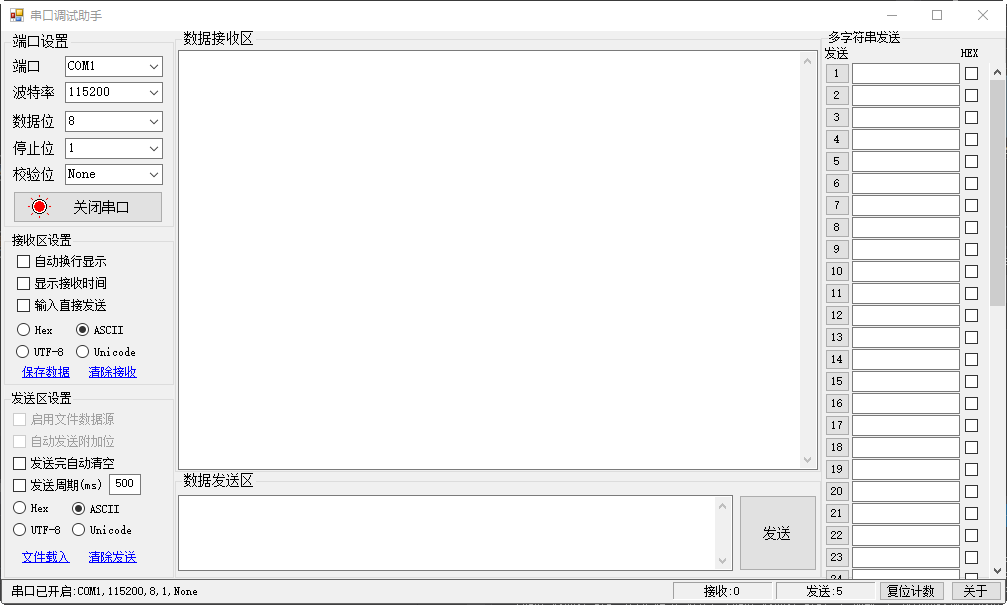
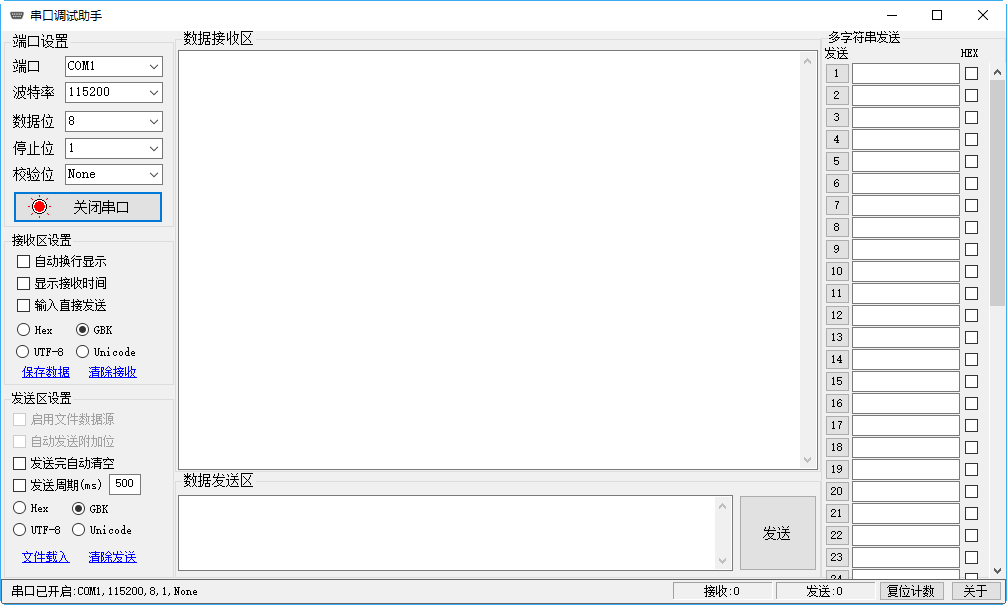
fix #1:ASCII编码发送中文异常,修改为GBK编码

diff --git a/ZUART/ZUART.Designer.cs b/ZUART/ZUART.Designer.cs
@@ -215,10 +215,10 @@
             this.rbtnSendASCII.Checked = true;
             this.rbtnSendASCII.Location = new System.Drawing.Point(68, 109);
             this.rbtnSendASCII.Name = "rbtnSendASCII";
-            this.rbtnSendASCII.Size = new System.Drawing.Size(53, 16);
+            this.rbtnSendASCII.Size = new System.Drawing.Size(41, 16);
             this.rbtnSendASCII.TabIndex = 7;
             this.rbtnSendASCII.TabStop = true;
-            this.rbtnSendASCII.Text = "ASCII";
+            this.rbtnSendASCII.Text = "GBK";
             this.rbtnSendASCII.UseVisualStyleBackColor = true;
             // 
             // rbtnSendUTF8
@@ -320,10 +320,10 @@
             this.rbtnASCII.Checked = true;
             this.rbtnASCII.Location = new System.Drawing.Point(72, 88);
             this.rbtnASCII.Name = "rbtnASCII";
-            this.rbtnASCII.Size = new System.Drawing.Size(53, 16);
+            this.rbtnASCII.Size = new System.Drawing.Size(41, 16);
             this.rbtnASCII.TabIndex = 4;
             this.rbtnASCII.TabStop = true;
-            this.rbtnASCII.Text = "ASCII";
+            this.rbtnASCII.Text = "GBK";
             this.rbtnASCII.UseVisualStyleBackColor = true;
             // 
             // rbtnHex

diff --git a/ZUART/ZUART.cs b/ZUART/ZUART.cs
@@ -270,7 +270,8 @@ namespace ZUART
             }
             else if (rbtnSendASCII.Checked)
             {
-                sendData = Encoding.ASCII.GetBytes(str);
+                //sendData = Encoding.ASCII.GetBytes(str);
+                sendData = Encoding.GetEncoding("GBK").GetBytes(str);
             }
             else if (rbtnSendUTF8.Checked)
             {
@@ -282,7 +283,7 @@ namespace ZUART
             }
             else
             {
-                sendData = Encoding.ASCII.GetBytes(str);
+                sendData = Encoding.GetEncoding("GBK").GetBytes(str);
             }
 
             if (this.SendData(sendData))//发送数据成功计数
@@ -354,7 +355,8 @@ namespace ZUART
             }
             else// if (rbtnASCII.Checked)
             {
-                AddContent(new ASCIIEncoding().GetString(data));
+                //AddContent(new ASCIIEncoding().GetString(data));
+                AddContent(Encoding.GetEncoding("GBK").GetString(data));
             }
 
             lblRevCount.Invoke(new MethodInvoker(delegate

diff --git a/ZUART/Properties/AssemblyInfo.cs b/ZUART/Properties/AssemblyInfo.cs
@@ -32,5 +32,5 @@ using System.Runtime.InteropServices;
 // 可以指定所有这些值，也可以使用“生成号”和“修订号”的默认值，
 // 方法是按如下所示使用“*”: 
 // [assembly: AssemblyVersion("1.0.*")]
-[assembly: AssemblyVersion("1.0.0.0")]
+[assembly: AssemblyVersion("1.0.0.1")]
 [assembly: AssemblyFileVersion("1.0.0.0")]
